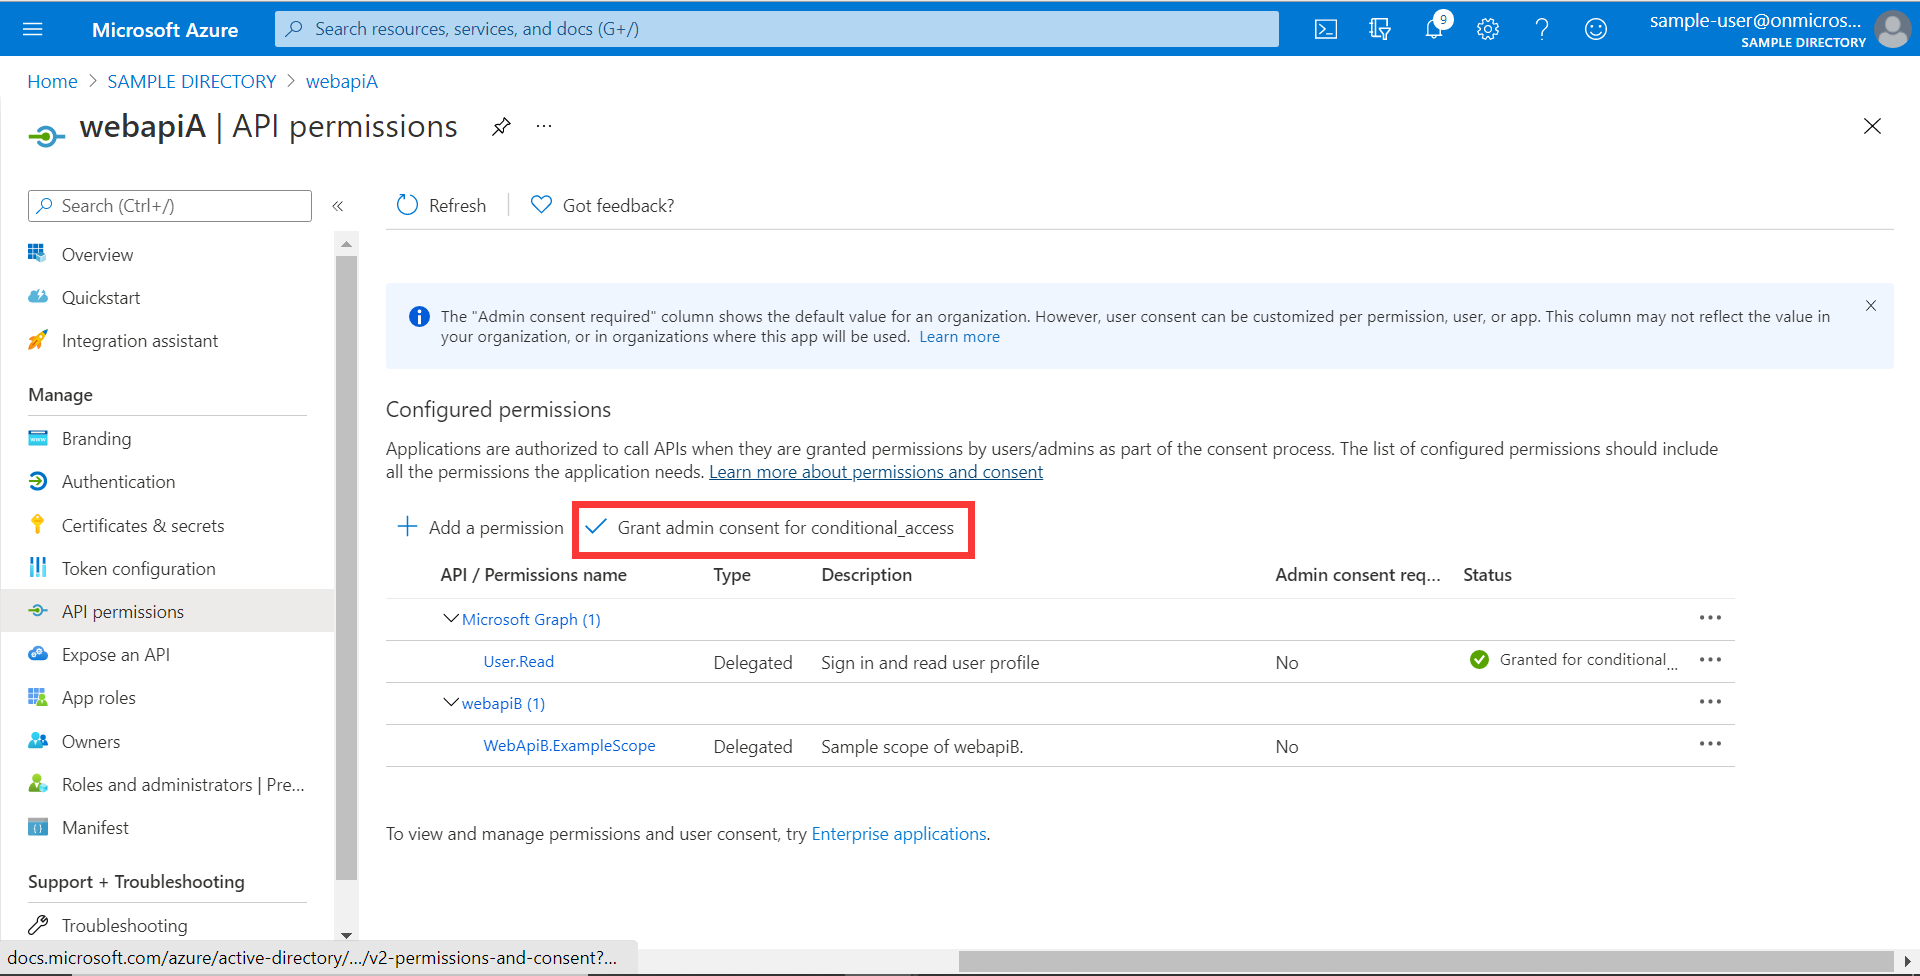
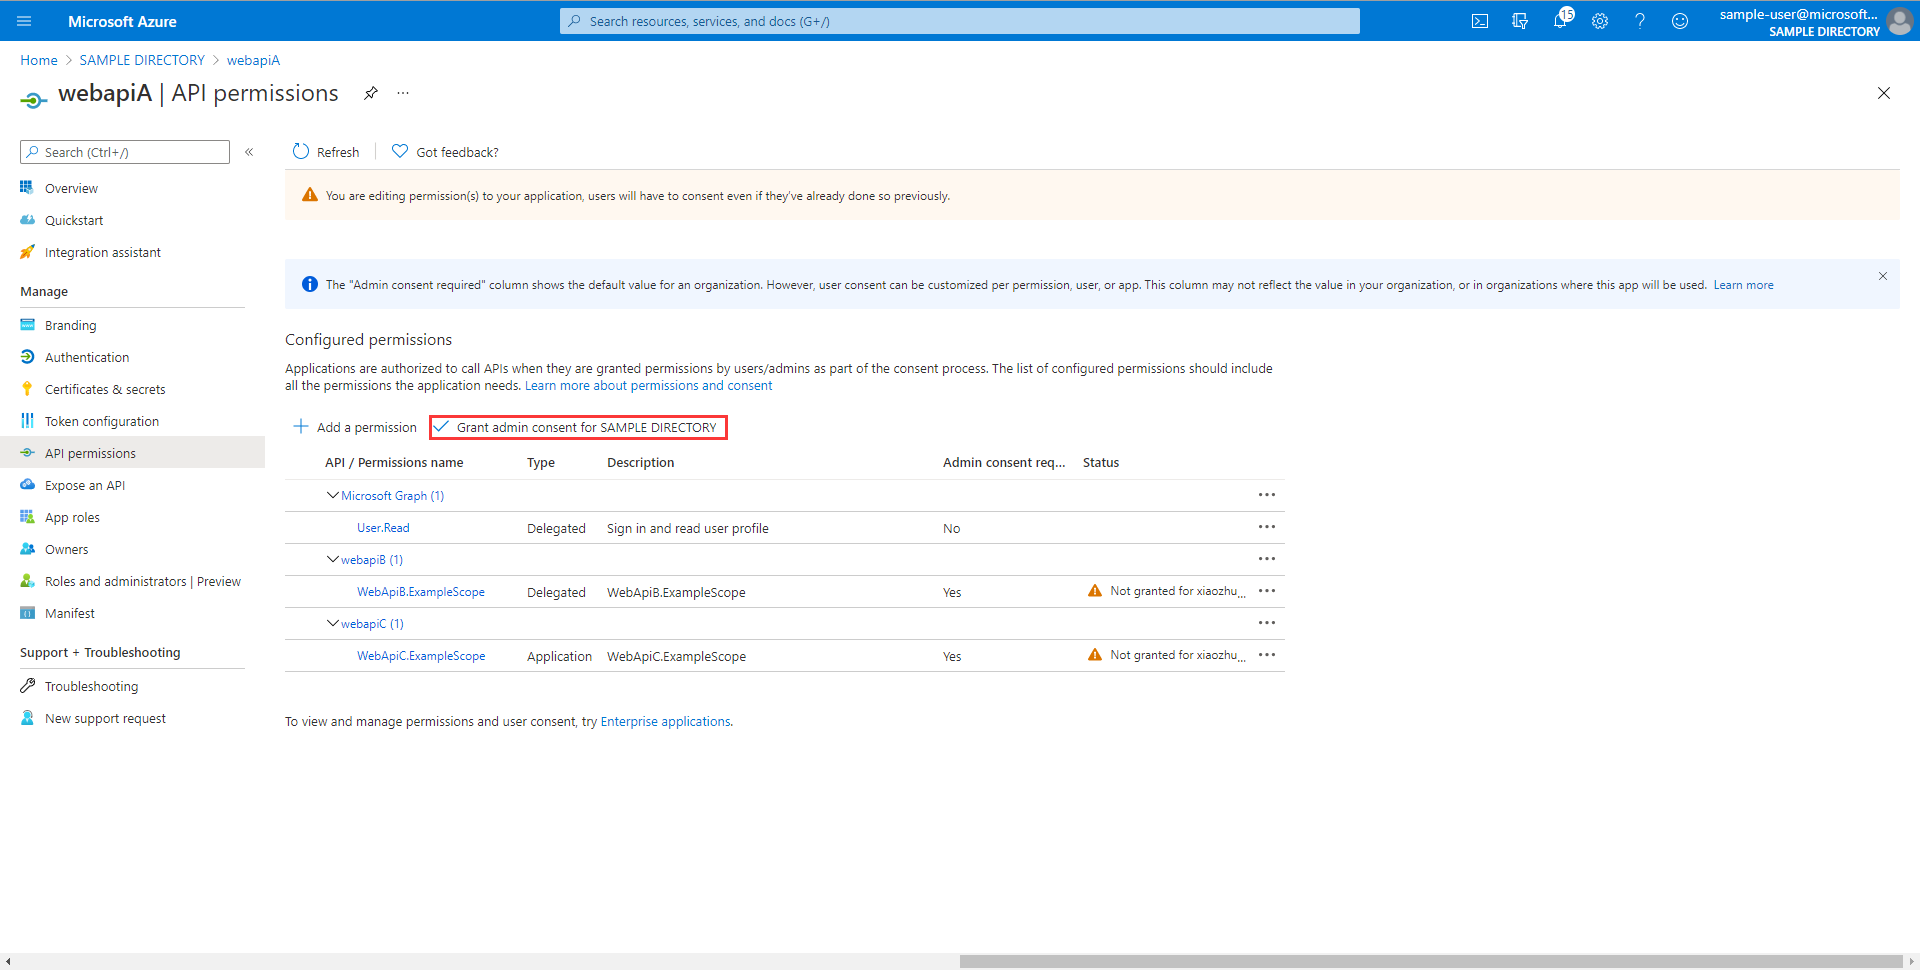
* Add the client credential flow doc.

diff --git a/sdk/spring/azure-spring-boot-samples/azure-spring-boot-sample-active-directory-resource-server-obo/src/main/java/com/azure/spring/sample/aad/controller/SampleController.java b/sdk/spring/azure-spring-boot-samples/azure-spring-boot-sample-active-directory-resource-server-obo/src/main/java/com/azure/spring/sample/aad/controller/SampleController.java
@@ -19,6 +19,7 @@ import org.springframework.web.context.request.RequestContextHolder;
 import org.springframework.web.context.request.ServletRequestAttributes;
 import org.springframework.web.reactive.function.client.WebClient;
 
+import static org.springframework.security.oauth2.client.web.reactive.function.client.ServletOAuth2AuthorizedClientExchangeFilterFunction.clientRegistrationId;
 import static org.springframework.security.oauth2.client.web.reactive.function.client.ServletOAuth2AuthorizedClientExchangeFilterFunction.oauth2AuthorizedClient;
 
 @RestController
@@ -38,6 +39,7 @@ public class SampleController {
 
     /**
      * Call the graph resource, return user information
+     *
      * @return Response with graph data
      */
     @PreAuthorize("hasAuthority('SCOPE_Obo.Graph.Read')")
@@ -53,6 +55,7 @@ public class SampleController {
 
     /**
      * Call the graph resource with annotation, return user information
+     *
      * @param graph authorized client for Graph
      * @return Response with graph data
      */
@@ -64,6 +67,7 @@ public class SampleController {
 
     /**
      * Call custom resources, combine all the response and return.
+     *
      * @param webapiBClient authorized client for Custom
      * @return Response Graph and Custom data.
      */
@@ -76,6 +80,7 @@ public class SampleController {
 
     /**
      * Call microsoft graph me endpoint
+     *
      * @param graph Authorized Client
      * @return Response string data.
      */
@@ -97,6 +102,7 @@ public class SampleController {
 
     /**
      * Call custom local file endpoint
+     *
      * @param webapiBClient Authorized Client
      * @return Response string data.
      */
@@ -114,5 +120,26 @@ public class SampleController {
         } else {
             return "webapiB response failed.";
         }
+    }
+
+    /**
+     * Access to protected data through client credential flow. The access token is obtained by webclient, or
+     * <p>@RegisteredOAuth2AuthorizedClient("webapiC")</p>. In the end, these two approaches will be executed to
+     * DefaultOAuth2AuthorizedClientManager#authorize method, get the access token.
+     *
+     * @return Respond to protected data.
+     */
+    @PreAuthorize("hasAuthority('SCOPE_Obo.WebApiA.ExampleScope')")
+    @GetMapping("webapiA/webapiC")
+    public String callClientCredential() {
+        String body = webClient
+            .get()
+            .uri("http://localhost:8083/webapiC")
+            .attributes(clientRegistrationId("webapiC"))
+            .retrieve()
+            .bodyToMono(String.class)
+            .block();
+        LOGGER.info("Response from Client Credential: {}", body);
+        return "client Credential response " + (null != body ? "success." : "failed.");
     }
 }

diff --git a/sdk/spring/azure-spring-boot-samples/azure-spring-boot-sample-active-directory-resource-server-obo/README.md b/sdk/spring/azure-spring-boot-samples/azure-spring-boot-sample-active-directory-resource-server-obo/README.md
@@ -25,8 +25,10 @@ Another sample [azure-spring-boot-sample-active-directory-resource-server] will 
 1. Expose two scopes for ***Web API A***, `Obo.Graph.Read` and `Obo.WebApiA.ExampleScope`. The **Application ID URI** is generated by default.  
 ![API Permissions](docs/image-resource-server-obo-add-scope.png)
 2. Select **API permissions** > **Add a permission** > **My APIs**, select ***Web API B*** application name. ![Select MyAPIs](docs/image-select-myapis.png)
-3. **Delegated permissions** is selected by default， Select **WebApiB.ExampleScope** permission, select **Add permission** to complete the process.![Add Permissions](docs/image-add-permissions.png)
-4. Grant admin consent for ***Web API B*** permissions.![API Permissions](docs/image-add-grant-admin-consent.png)
+3. **Delegated permissions** is selected by default, Select **WebApiB.ExampleScope** permission, select **Add permission** to complete the process.![Add Permissions](docs/image-add-permissions.png)
+4. Same as the second step above, select ***Web API C*** Application Name.
+5. Manually select **Application Permissions**, Select **WebApiC.ExampleScope** permission, select **Add permission** to complete the process.![Select MyAPIs](docs/image-select-application-permission.png)
+6. Grant admin consent for ***Web API B*** permissions and  ***Web API C*** permissions.![API Permissions](docs/image-add-grant-admin-consent.png)
 
 See [OAuth 2.0 On-Behalf-Of flow] for more information about OBO.
 
@@ -37,15 +39,20 @@ azure:
   activedirectory:
     client-id: <Web-API-A-client-id>
     client-secret: <Web-API-A-client-secret>
-    tenant-id: <tenant-id-registered-by-application>
+    tenant-id: <Tenant-id-registered-by-application>
     app-id-uri: <Web-API-A-app-id-url>
     authorization-clients:
       graph:
         scopes:
           - https://graph.microsoft.com/User.Read
-      webapiB:
+      webapiB:         # When authorization-grant-type is null, on behalf of flow is used by default
+        authorization-grant-type: on-behalf-of
         scopes:
           - <Web-API-B-app-id-url>/WebApiB.ExampleScope
+      webapiC:
+        authorization-grant-type: client_credentials
+        scopes:
+          - <Web-API-C-app-id-url>/.default
 ```
 
 ### Run with Maven
@@ -82,12 +89,24 @@ Graph response success.
 
 ```shell script
 # Replace to valid access token.
-curl localhost:8081/call-custom -H "Authorization: Bearer <replace-the-access-token>"
+curl localhost:8081/webapiA/webapiB -H "Authorization: Bearer <replace-the-access-token>"
 ```
 
 Verify response:
 ```text
 Custom response success.
+```
+
+- Web API A will call Custom(Web API C) resources through Client Credential Flow.
+
+```shell script
+# Replace to valid access token.
+curl localhost:8081/webapiA/webapiC -H "Authorization: Bearer <replace-the-access-token>"
+```
+
+Verify response:
+```text
+client Credential response success.
 ```
 
 ## Troubleshooting

diff --git a/sdk/spring/azure-spring-boot-starter-active-directory/README.md b/sdk/spring/azure-spring-boot-starter-active-directory/README.md
@@ -380,6 +380,37 @@ Here are some examples about how to use these properties:
     After the scopes have been consented, AAD server will remember that this user has already granted 
     the permission to the web application. So incremental consent will not happen anymore after user 
     consented.
+  
+#### Property example 4: [Client credential flow] in resource server visiting resource servers.
+
+* Step 1: Add property in application.yml
+    ```yaml
+    azure:
+      activedirectory:
+        authorization-clients:
+          webapiC:                          # When authorization-grant-type is null, on behalf of flow is used by default
+            authorization-grant-type: client_credentials
+            scopes:
+                - <Web-API-C-app-id-url>/.default
+    ```
+
+* Step 2: Write Java code:
+    <!-- embedme ../azure-spring-boot-samples/azure-spring-boot-sample-active-directory-resource-server-obo/src/main/java/com/azure/spring/sample/aad/controller/SampleController.java#L125-L137 -->
+    ```java
+    @PreAuthorize("hasAuthority('SCOPE_Obo.WebApiA.ClientCredentialExampleScope')")
+    @GetMapping("webapiA/webapiC")
+    public String callClientCredential() {
+        String body = webClient
+                    .get()
+                    .uri("http://localhost:8083/webapiC")
+                    .attributes(clientRegistrationId("webapiC"))
+                    .retrieve()
+                    .bodyToMono(String.class)
+                    .block();
+        LOGGER.info("Response from Client Credential: {}", body);
+        return "client Credential response " + (null != body ? "success." : "failed.");
+    }
+    ```
 
 ### Advanced features
 
